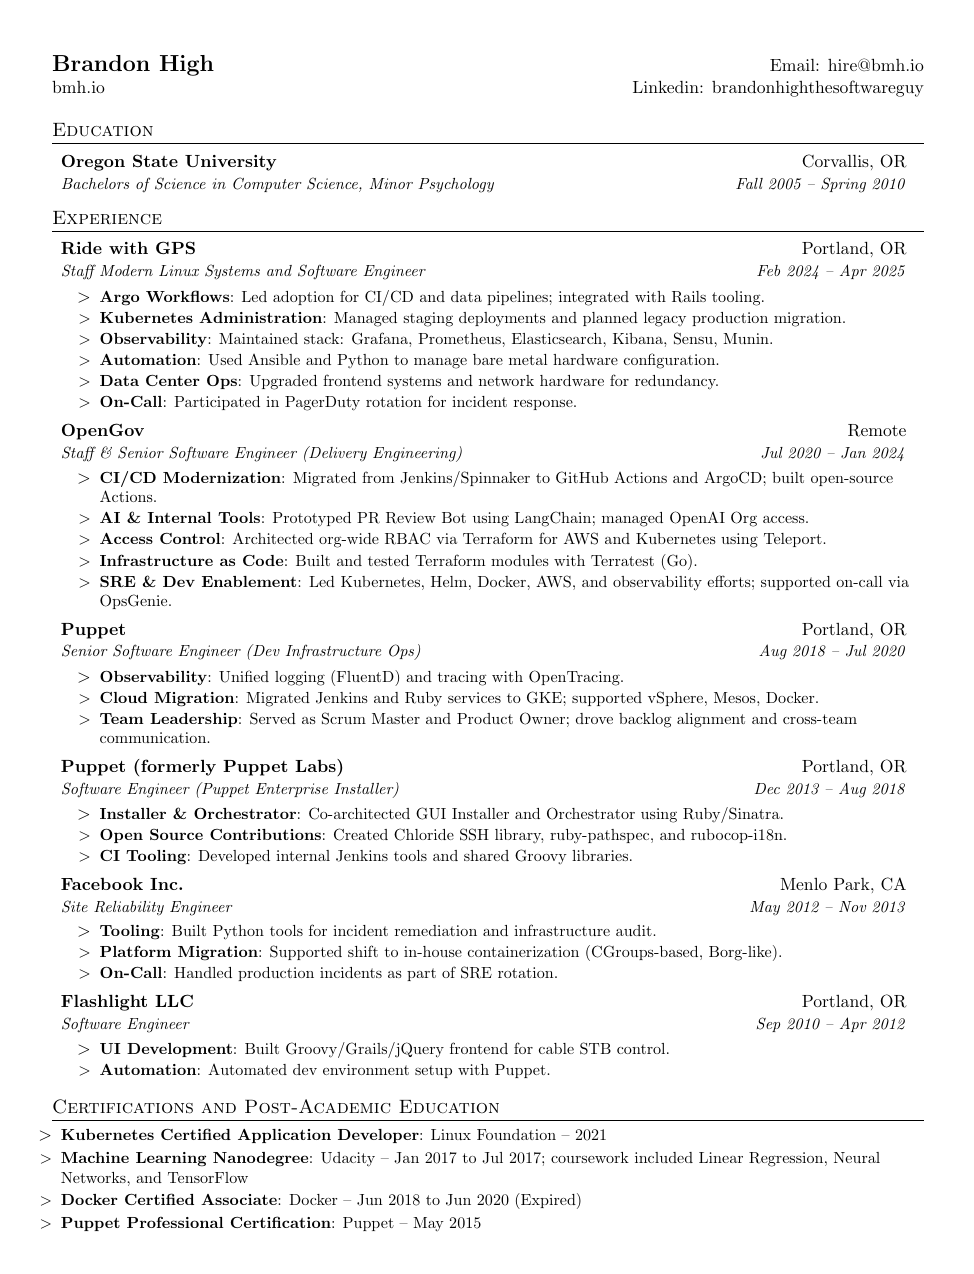
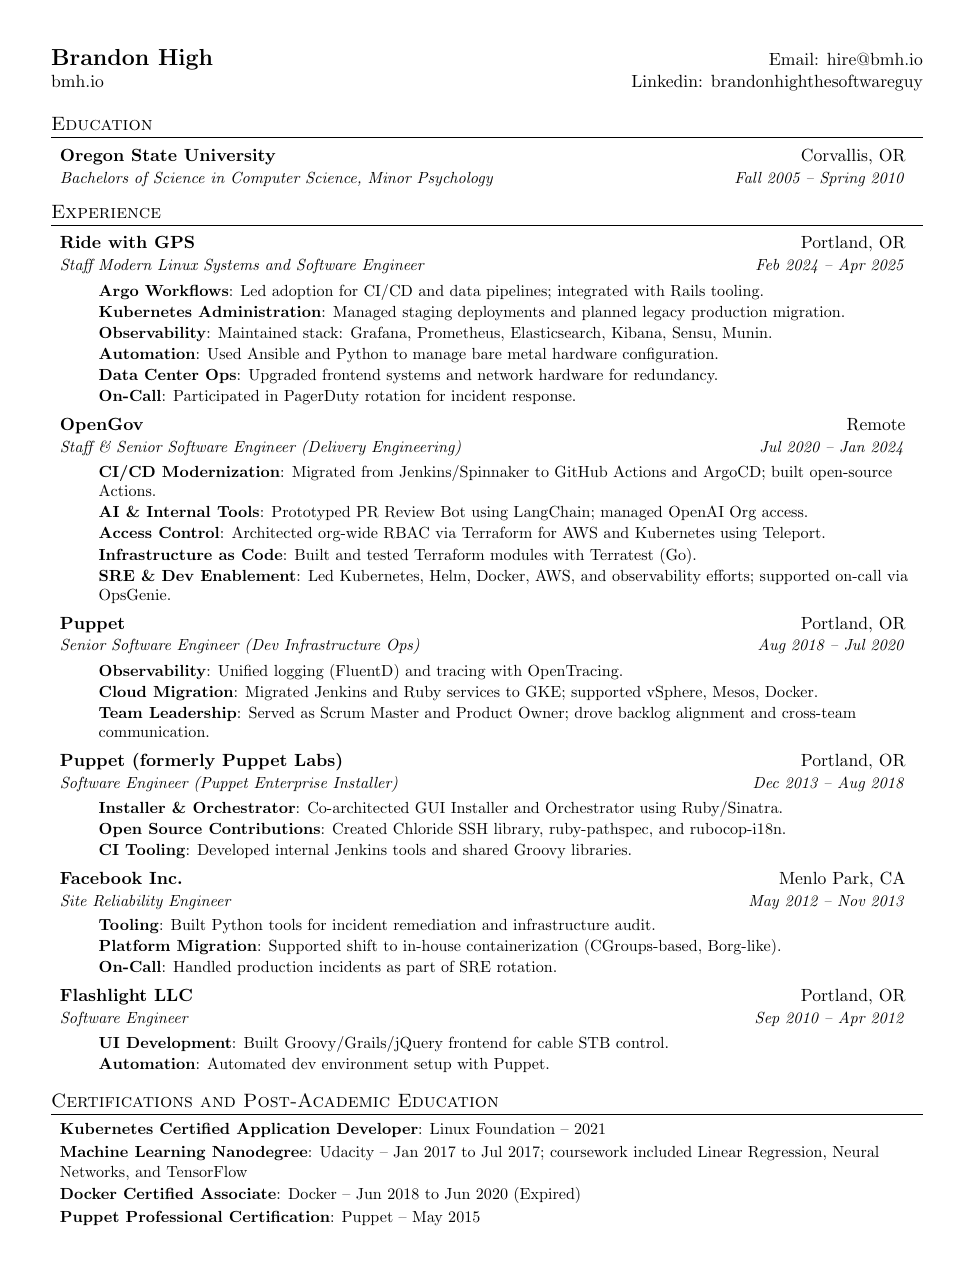
Ditch the bullets entirely

Changed region(s): [[0.0309, 0.0308, 0.9278, 0.9866], [0.6495, 0.0308, 0.9588, 0.1542], [0.7732, 0.7708, 0.9278, 0.8324]]

diff --git a/brandon_high_resume.tex b/brandon_high_resume.tex
@@ -53,7 +53,7 @@
 %-------------------------
 % Custom commands
 \newcommand{\resumeItem}[2]{
-\item[\textgreater]\small{
+\item[\textsc{}]\small{
     \textbf{#1}{: #2 \vspace{-2pt}}
   }
 }
@@ -237,33 +237,24 @@
 %--------SKILLS------------
 \section{Skills}
   \resumeSubHeadingListStart
-    \item{
-      \textbf{Languages}{: Ruby, Python, JavaScript, C, Go, Rust, SQL}
-    }
-    \item{
-      \textbf{CI/CD}{: GitHub Actions, Argo Workflows/CD/Events, CircleCI, Jenkins, Spinnaker}
-    }
-    \item{
-      \textbf{Infrastructure \& Automation}{: Terraform, Kubernetes, Helm, Kustomize, Ansible, Puppet, Docker}
-    }
-    \item{
-      \textbf{Cloud}{: AWS, GCP}
-    }
-    \item{
-      \textbf{Observability \& Monitoring}{: Prometheus, Grafana, Elasticsearch, Kibana, FluentD, OpenTracing, Sensu, Munin}
-    }
-    \item{
-      \textbf{Security \& Access Control}{: RBAC, Teleport, IAM (AWS)}
-    }
-    \item{
-      \textbf{AI/LLM}{: OpenAI API, OLlama, LangChain}
-    }
-    \item{
-      \textbf{Testing \& Dev Tools}{: Terratest (Go), Git, VSCode, Groovy (Jenkins Pipelines)}
-    }
-    \item{
-      \textbf{Operating Systems}{: Ubuntu, Debian, CentOS, Arch Linux, Gentoo, macOS, Windows, Raspbian}
-    }
+    \resumeSubItem{Languages}
+      {Ruby, Python, JavaScript, C, Go, Rust, SQL}
+    \resumeSubItem{CI/CD}
+      {GitHub Actions, Argo Workflows/CD/Events, CircleCI, Jenkins, Spinnaker}
+    \resumeSubItem{Infrastructure \& Automation}
+      {Terraform, Kubernetes, Helm, Kustomize, Ansible, Puppet, Docker}
+    \resumeSubItem{Cloud}
+      {AWS, GCP}
+    \resumeSubItem{Observability \& Monitoring}
+      {Prometheus, Grafana, Elasticsearch, Kibana, FluentD, OpenTracing, Sensu, Munin}
+    \resumeSubItem{Security \& Access Control}
+      {RBAC, Teleport, IAM (AWS)}
+    \resumeSubItem{AI/LLM}
+      {OpenAI API, OLlama, LangChain}
+    \resumeSubItem{Testing \& Dev Tools}
+      {Terratest (Go), Git, VSCode, Groovy (Jenkins Pipelines)}
+    \resumeSubItem{Operating Systems}
+      {Ubuntu, Debian, CentOS, Arch Linux, Gentoo, macOS, Windows, Raspbian}
   \resumeSubHeadingListEnd
 
 
